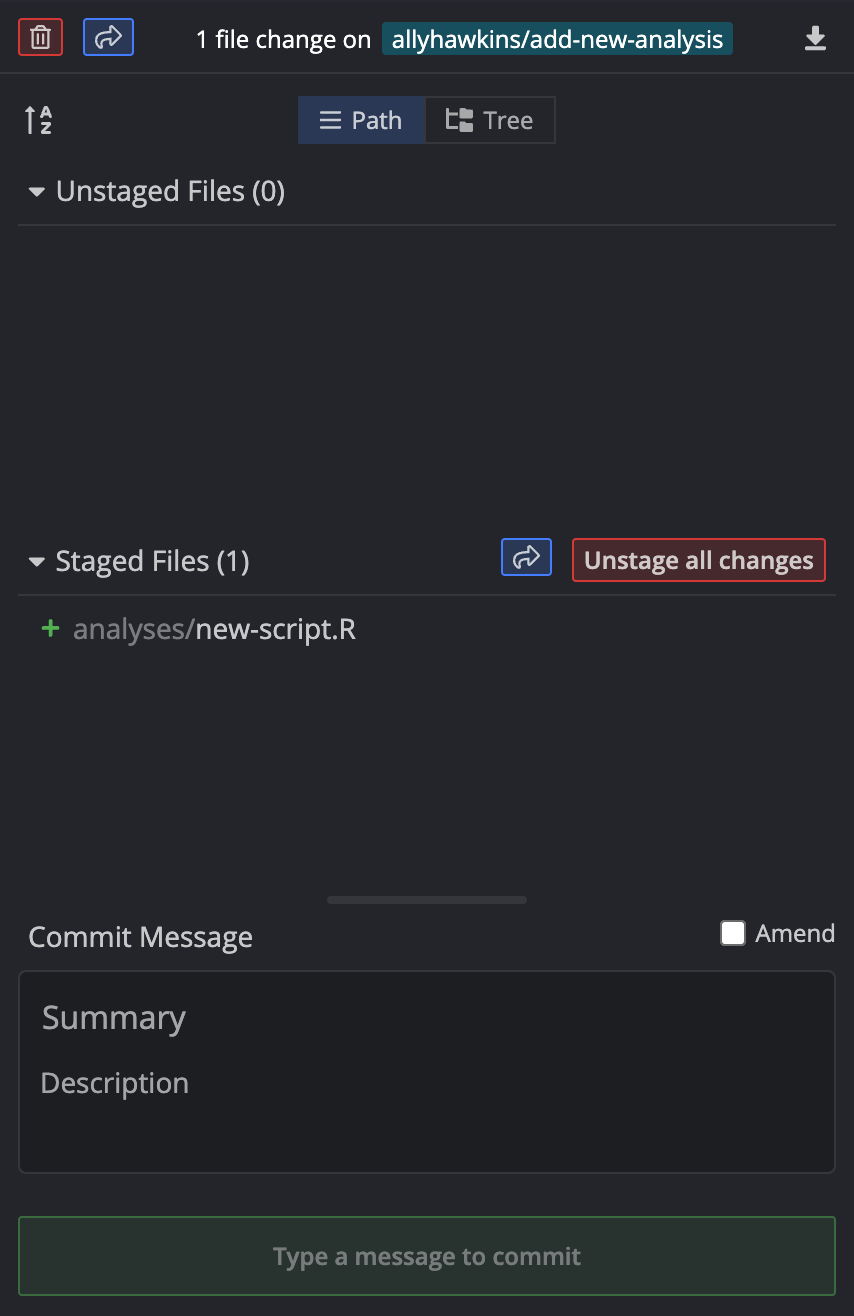
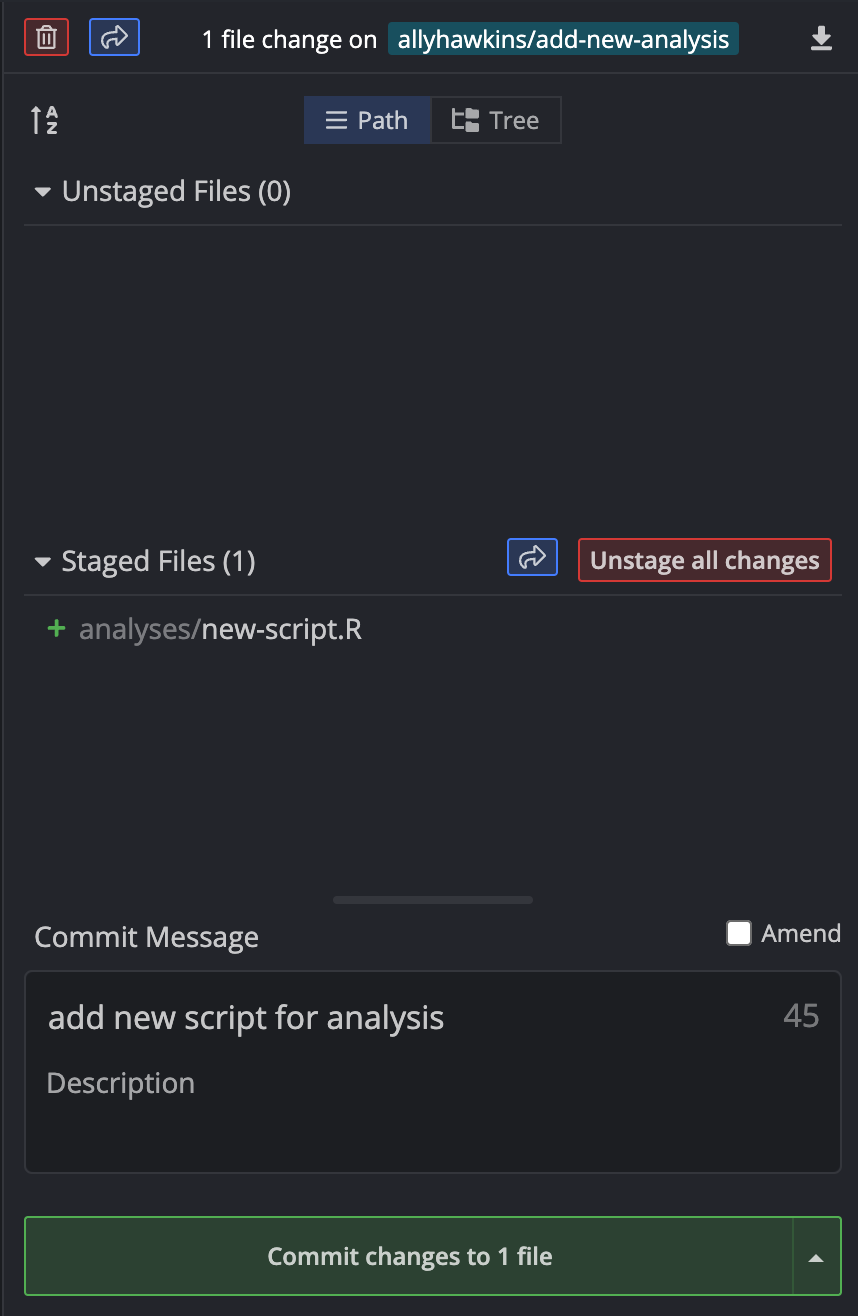
test something out with pixel size

diff --git a/docs/contributing-to-analyses/doing-analyses/working-with-git/making-commits/index.md b/docs/contributing-to-analyses/doing-analyses/working-with-git/making-commits/index.md
@@ -17,18 +17,14 @@ Any files that are in the `Staged Files` section will be included in your commit
 If you wish to include all changes to all files, use the `Stage all changes` button.
 
 <figure markdown="span">
-    ![Unstaged files](../../../../img/making-commits-1.png){width="600"}
-</figure>
-
-<figure markdown="span">
-    ![Staged files](../../../../img/making-commits-2.png){width="600"}
+    ![Unstaged files](../../../../img/making-commits-1.png){width="1200"}
 </figure>
 
 2. Write a commit message by filling in the `Summary` box.
 This should be a short message that describes what changes are being made with that commit.
 
 <figure markdown="span">
-    ![Commit message](../../../../img/making-commits-3.png){width="600"}
+    ![Commit message](../../../../img/making-commits-2.png){width="450"}
 </figure>
 
 3. Click on `Stage files/changes to commit` to make the commit.
@@ -36,7 +32,7 @@ This action ensures that your commit, and any changes associated with that commi
 You should now see a new line with your commit message connected to your branch name in GitKraken.
 
 <figure markdown="span">
-    ![Commit change](../../../../img/making-commits-4.png){width="600"}
+    ![Commit change](../../../../img/making-commits-3.png){width="1000"}
 </figure>
 
 You have now successfully committed your changes to your feature branch!
